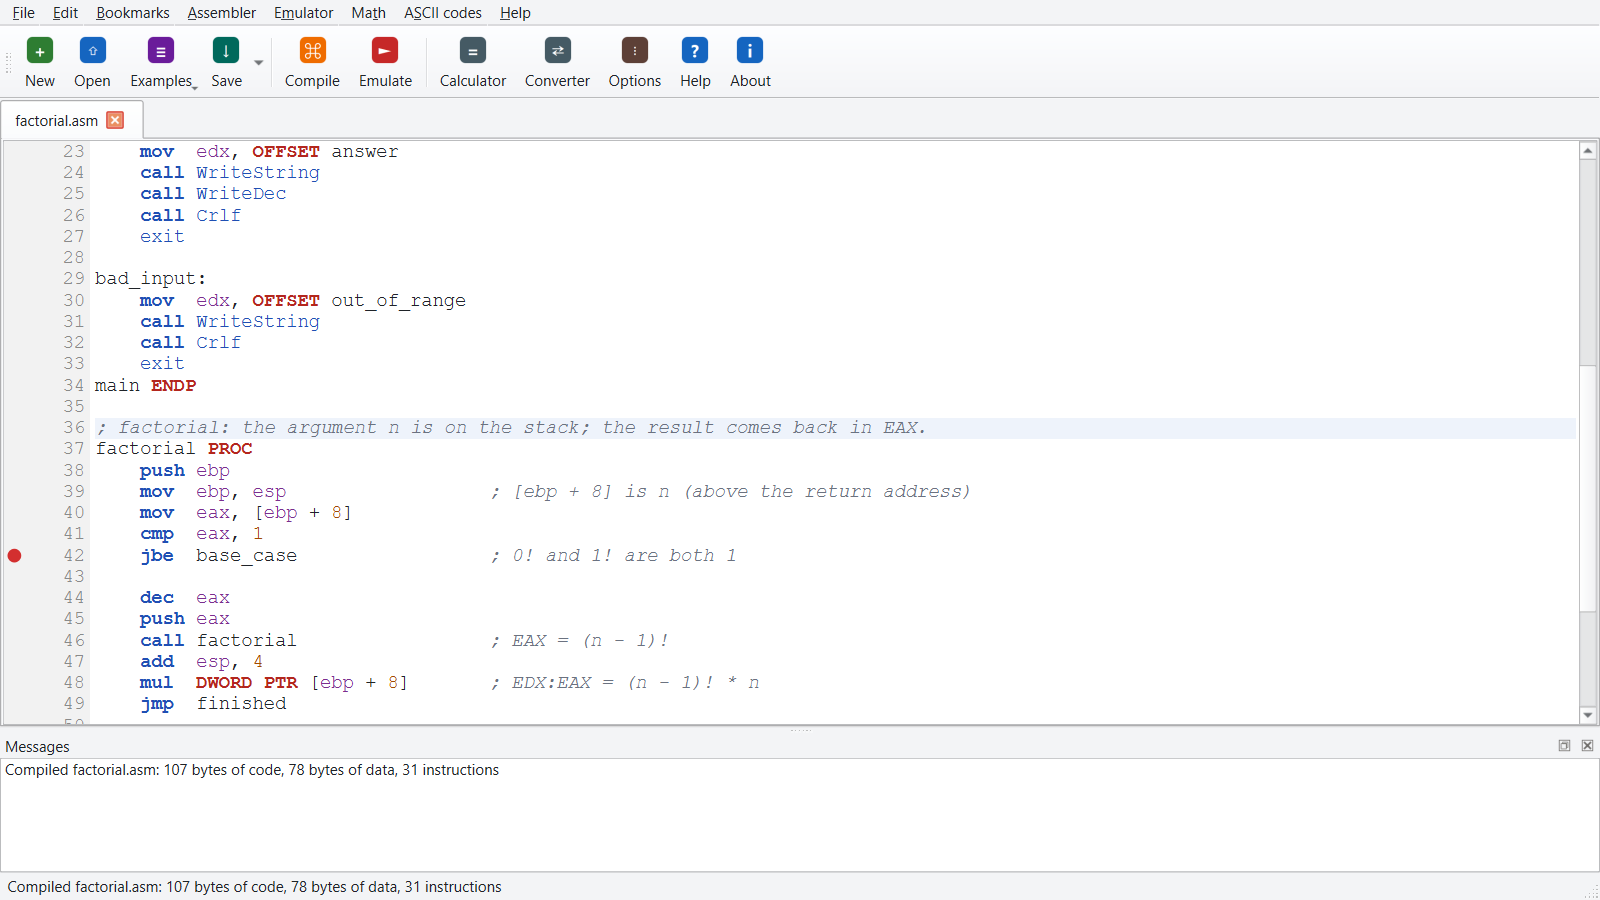
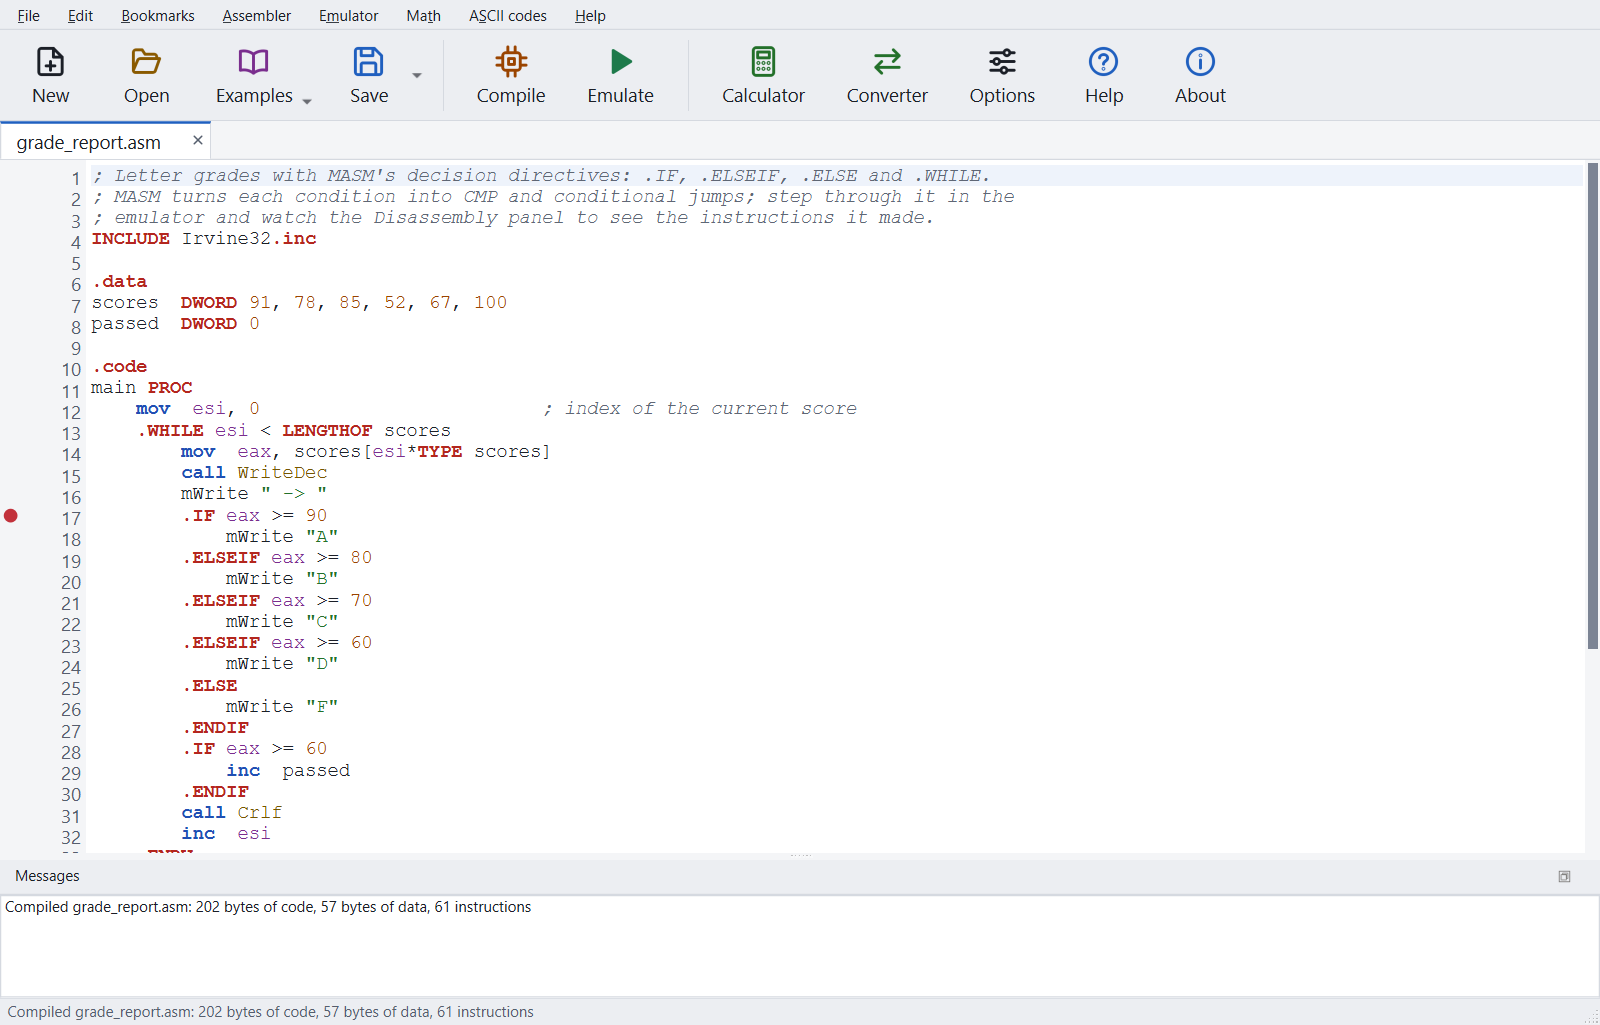
docs: describe the Visual Studio course features and refresh the screenshots

diff --git a/README.md b/README.md
@@ -4,23 +4,44 @@ A desktop tool for learning 32-bit x86 (IA-32) assembly. Write a program in the 
 compile it, then run it one instruction at a time and watch the registers, flags, memory,
 stack, variables and screen output change.
 
+It runs the MASM programs written for Visual Studio courses with the Irvine32 library
+unchanged, so a course can use emu32 instead of setting up Visual Studio: no project
+settings, no linker, and a debugger that shows every register, flag and memory byte as you
+step, and can step back.
+
 **[Download emu32 for Windows](https://github.com/hani-k07/emu32/releases/latest)**: open the
 latest release and download the file named `emu32-<version>-windows.zip`. The green **Code >
 Download ZIP** button gives the source code, not the program.
 
-![The emulator window paused inside a recursive procedure](docs/images/emulator.png)
+![The emulator window paused in an .ELSEIF: Disassembly shows the CMP and JB that MASM made from it, and Screen shows the output so far](docs/images/emulator.png)
 
-- Editor with syntax coloring, error list with line numbers, breakpoints and autosave
-- Emulator window: registers, memory, disassembly, stack, variables, flags, screen
-- Single step, step over, step back, run with a step delay, breakpoints and watches
+**Visual Studio / Irvine32 programs**
+
+- `INCLUDE Irvine32.inc`, `PROC`/`ENDP` with `USES` and `LOCAL`, `INVOKE` and `PROTO`
+- `.IF`/`.ELSEIF`/`.ELSE`, `.WHILE`, `.REPEAT`/`.UNTIL`, `.BREAK`/`.CONTINUE`
+- `MACRO` with `LOCAL` and default values; `mWrite`, `mWriteLn` and the other course
+  macros built in
+- `STRUCT`, `QWORD`, `LABEL`, `ALIGN`, `TEXTEQU`, `@@` labels, `LENGTHOF`/`SIZEOF`/`TYPE`
+- Conditional assembly and repeat blocks: `IF`/`IFB`/`IFIDN`/`ELSE`, `REPT`, `FOR`,
+  `FORC`, `WHILE`
+- Floating point: `REAL4`/`REAL8`/`REAL10`, the x87 FPU instructions, `WriteFloat`,
+  `ReadFloat`, `ShowFPUStack`
+- The Irvine32 console routines (`WriteString`, `ReadInt`, `DumpRegs`, ...) and
+  `int 21h` services; Intel/NASM style as well
+
+**Debugger**
+
+- Panels for registers, memory, disassembly, stack, variables, flags, FPU and screen
+- Single step, step over, step back (registers, memory and FPU), run with a step delay,
+  breakpoints and watches
 - A CPU structure view that shows fetch, decode and execute in a simple model
-- Runs the MASM programs written for Visual Studio and the Irvine32 library unchanged:
-  `INVOKE`, `.IF`/`.WHILE`/`.REPEAT`, macros (with `mWrite`), `STRUCT`, `QWORD`, `LOCAL`,
-  and floating point with `REAL4`/`REAL8` and the x87 FPU (with an FPU panel)
-- Intel/NASM style as well
-- Built-in console library (`WriteString`, `ReadInt`, ...) and `int 21h` services
-- Converter, calculator and ASCII table; a quick start tutorial and references
-- Works offline; projector mode for teaching
+
+**Editor and tools**
+
+- Syntax coloring, error list with line numbers (click to jump), breakpoints, autosave
+- Examples, converter, calculator and ASCII table; a quick start tutorial, references
+  and a "Coming from Visual Studio" page
+- Works offline; light, dark and projector modes for teaching
 
 ## Install
 
@@ -77,7 +98,7 @@ The full tutorial is under Help > Quick start tutorial (F1), and in
 [syntax reference](src/emu32/help/syntax.md) and
 [instruction reference](src/emu32/help/instructions.md) are in the same folder.
 
-![The editor with a breakpoint and a compiled program](docs/images/editor.png)
+![The editor with the grade report example compiled and a breakpoint on line 17](docs/images/editor.png)
 
 ## Known limitations
 
